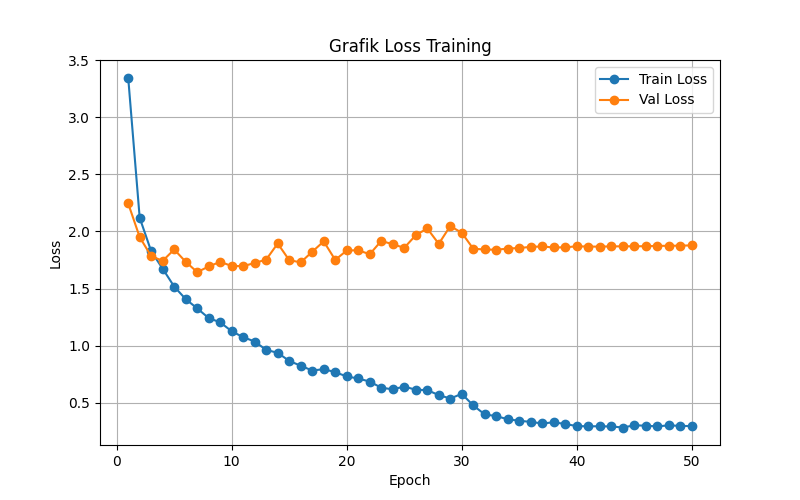
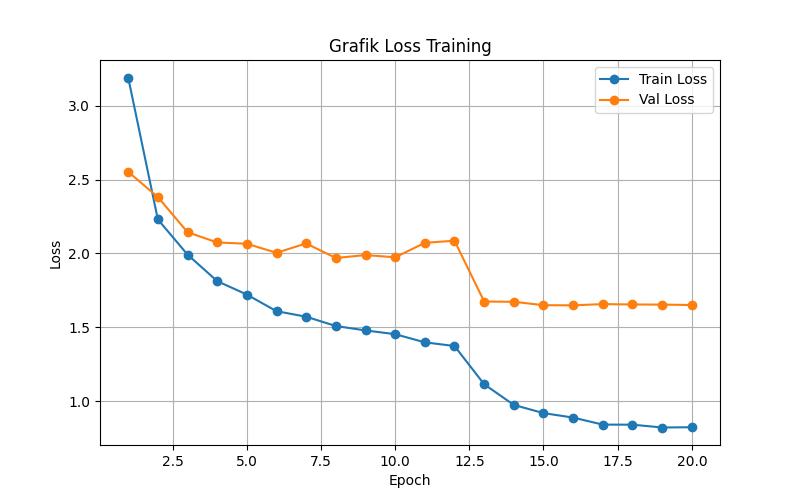
Update training scripts, demo video, and fix BatchNorm crash

diff --git a/TA_Lite/demo_video.py b/TA_Lite/demo_video.py
@@ -1,0 +1,124 @@
+import cv2
+import torch
+import argparse
+from torchvision.transforms import functional as TF
+import numpy as np
+import os
+
+# Import build_model dari script training Anda
+from train_vehicle_detector import build_model, VEHICLE_CLASSES
+
+def parse_args():
+    parser = argparse.ArgumentParser(description="Demo Deteksi Kendaraan pada Video")
+    parser.add_argument("--video", type=str, required=True, help="/videos_input/video1.mp4")
+    parser.add_argument("--model", type=str, default="output/vehicle_detector_best.pth", help="Path ke file model .pth")
+    parser.add_argument("--output", type=str, default="output_video.mp4", help="Path untuk menyimpan hasil video")
+    parser.add_argument("--conf", type=float, default=0.6, help="Confidence threshold (0.0 - 1.0)")
+    return parser.parse_args()
+
+def main():
+    args = parse_args()
+    
+    if not os.path.exists(args.video):
+        print(f"[Error] Video tidak ditemukan: {args.video}")
+        return
+        
+    if not os.path.exists(args.model):
+        print(f"[Error] Model tidak ditemukan: {args.model}")
+        return
+
+    print("[Info] Memuat model PyTorch...")
+    device = torch.device("cuda" if torch.cuda.is_available() else "cpu")
+    
+    # 1. Buat model (jumlah kelas sesuai training)
+    model = build_model(num_classes=len(VEHICLE_CLASSES), pretrained_backbone=False)
+    
+    # 2. Muat bobot dari hasil training terbaik
+    checkpoint = torch.load(args.model, map_location=device)
+    model.load_state_dict(checkpoint["model"])
+    model.to(device)
+    model.eval()
+    print("[Info] Model berhasil dimuat!")
+
+    # 3. Buka Video
+    cap = cv2.VideoCapture(args.video)
+    if not cap.isOpened():
+        print(f"[Error] Gagal membuka video: {args.video}")
+        return
+
+    # Siapkan VideoWriter untuk menyimpan hasil
+    width  = int(cap.get(cv2.CAP_PROP_FRAME_WIDTH))
+    height = int(cap.get(cv2.CAP_PROP_FRAME_HEIGHT))
+    fps    = cap.get(cv2.CAP_PROP_FPS)
+    
+    # Validasi FPS (Beberapa codec video di Linux mengembalikan nilai FPS aneh seperti 0, 1000, atau nan)
+    if fps <= 0 or fps > 120 or np.isnan(fps):
+        print(f"[Peringatan] Deteksi FPS video tidak valid ({fps}). Menggunakan fallback 30.0 FPS.")
+        fps = 30.0
+    else:
+        print(f"[Info] Video FPS terdeteksi: {fps}")
+    
+    fourcc = cv2.VideoWriter_fourcc(*'mp4v')
+    out_video = cv2.VideoWriter(args.output, fourcc, fps, (width, height))
+        
+    print(f"\n[Mulai] Memproses video... Tekan 'q' untuk berhenti.")
+    print(f"        Hasil akan disimpan ke: {args.output}")
+
+    frame_count = 0
+    while True:
+        ret, frame = cap.read()
+        if not ret:
+            break
+            
+        frame_count += 1
+            
+        # 4. Pre-process gambar untuk model PyTorch
+        img_rgb = cv2.cvtColor(frame, cv2.COLOR_BGR2RGB)
+        img_tensor = TF.to_tensor(img_rgb).to(device)
+        
+        # 5. Lakukan deteksi
+        with torch.no_grad():
+            predictions = model([img_tensor])[0]
+            
+        # 6. Gambar kotak merah jika yakin > threshold
+        boxes = predictions["boxes"].cpu().numpy()
+        scores = predictions["scores"].cpu().numpy()
+        labels = predictions["labels"].cpu().numpy()
+        
+        for box, score, label_id in zip(boxes, scores, labels):
+            if score > args.conf:
+                x1, y1, x2, y2 = map(int, box)
+                class_name = VEHICLE_CLASSES[label_id]
+                
+                # Gambar kotak (warna biru untuk mobil, merah untuk motor, dll)
+                color = (0, 255, 0) # Hijau default
+                if class_name == "car":
+                    color = (255, 0, 0) # Biru
+                elif class_name == "motor":
+                    color = (0, 0, 255) # Merah
+                    
+                cv2.rectangle(frame, (x1, y1), (x2, y2), color, 2)
+                # Tulis nama
+                text = f"{class_name}: {score*100:.0f}%"
+                cv2.putText(frame, text, (x1, y1 - 10), cv2.FONT_HERSHEY_SIMPLEX, 0.6, color, 2)
+
+        # 7. Simpan frame ke video output
+        out_video.write(frame)
+        
+        # 8. Tampilkan ke layar (opsional, bisa di-comment jika ingin lebih cepat)
+        cv2.imshow("Demo Deteksi Video", frame)
+        
+        if cv2.waitKey(1) & 0xFF == ord('q'):
+            print("\n[Info] Dihentikan oleh pengguna.")
+            break
+            
+        if frame_count % 30 == 0:
+            print(f"  Memproses frame {frame_count}...")
+
+    cap.release()
+    out_video.release()
+    cv2.destroyAllWindows()
+    print(f"\n[Selesai] Video hasil deteksi telah disimpan di: {args.output}")
+
+if __name__ == "__main__":
+    main()

diff --git a/TA_Lite/train_vehicle_detector.py b/TA_Lite/train_vehicle_detector.py
@@ -175,8 +175,10 @@ NUM_CLASSES:     int = len(VEHICLE_CLASSES)   # 3
 
 # Alias bahasa Indonesia dan sinonim umum
 CLASS_ALIASES: Dict[str, str] = {
-    "mobil":      "car",
-    "motor":      "motor",
+    "mobil":       "car",
+    "motorcycle":  "motor", 
+    "motorbike":   "motor",
+    "kendaraan":   "car"
 }
 
 
@@ -780,6 +782,7 @@ def main() -> None:
         num_workers=args.workers,
         collate_fn=collate_fn,
         pin_memory=(device.type == "cuda"),
+        drop_last=True,
     )
     val_loader = DataLoader(
         val_dataset,
@@ -788,6 +791,7 @@ def main() -> None:
         num_workers=args.workers,
         collate_fn=collate_fn,
         pin_memory=(device.type == "cuda"),
+        drop_last=(len(val_dataset) % args.batch == 1),
     )
 
     # ── Model ────────────────────────────────────────────────────────────────

diff --git a/TA_Lite/train_vehicle_detector_cloud.py b/TA_Lite/train_vehicle_detector_cloud.py
@@ -211,6 +211,7 @@ def main() -> None:
         num_workers=args.workers,
         collate_fn=collate_fn,
         pin_memory=(device.type == "cuda"),
+        drop_last=True,
     )
     val_loader = DataLoader(
         val_dataset,
@@ -219,6 +220,7 @@ def main() -> None:
         num_workers=args.workers,
         collate_fn=collate_fn,
         pin_memory=(device.type == "cuda"),
+        drop_last=(len(val_dataset) % args.batch == 1),
     )
 
     model = build_model(NUM_CLASSES, pretrained_backbone=not args.no_pretrained)

diff --git a/TA_Lite/run_my_model.py b/TA_Lite/run_my_model.py
@@ -47,7 +47,7 @@ def main():
         labels = predictions["labels"].cpu().numpy()
         
         for box, score, label_id in zip(boxes, scores, labels):
-            if score > 0.3: # Threshold
+            if score > 0.5: # Threshold
                 x1, y1, x2, y2 = map(int, box)
                 class_name = VEHICLE_CLASSES[label_id]
                 
